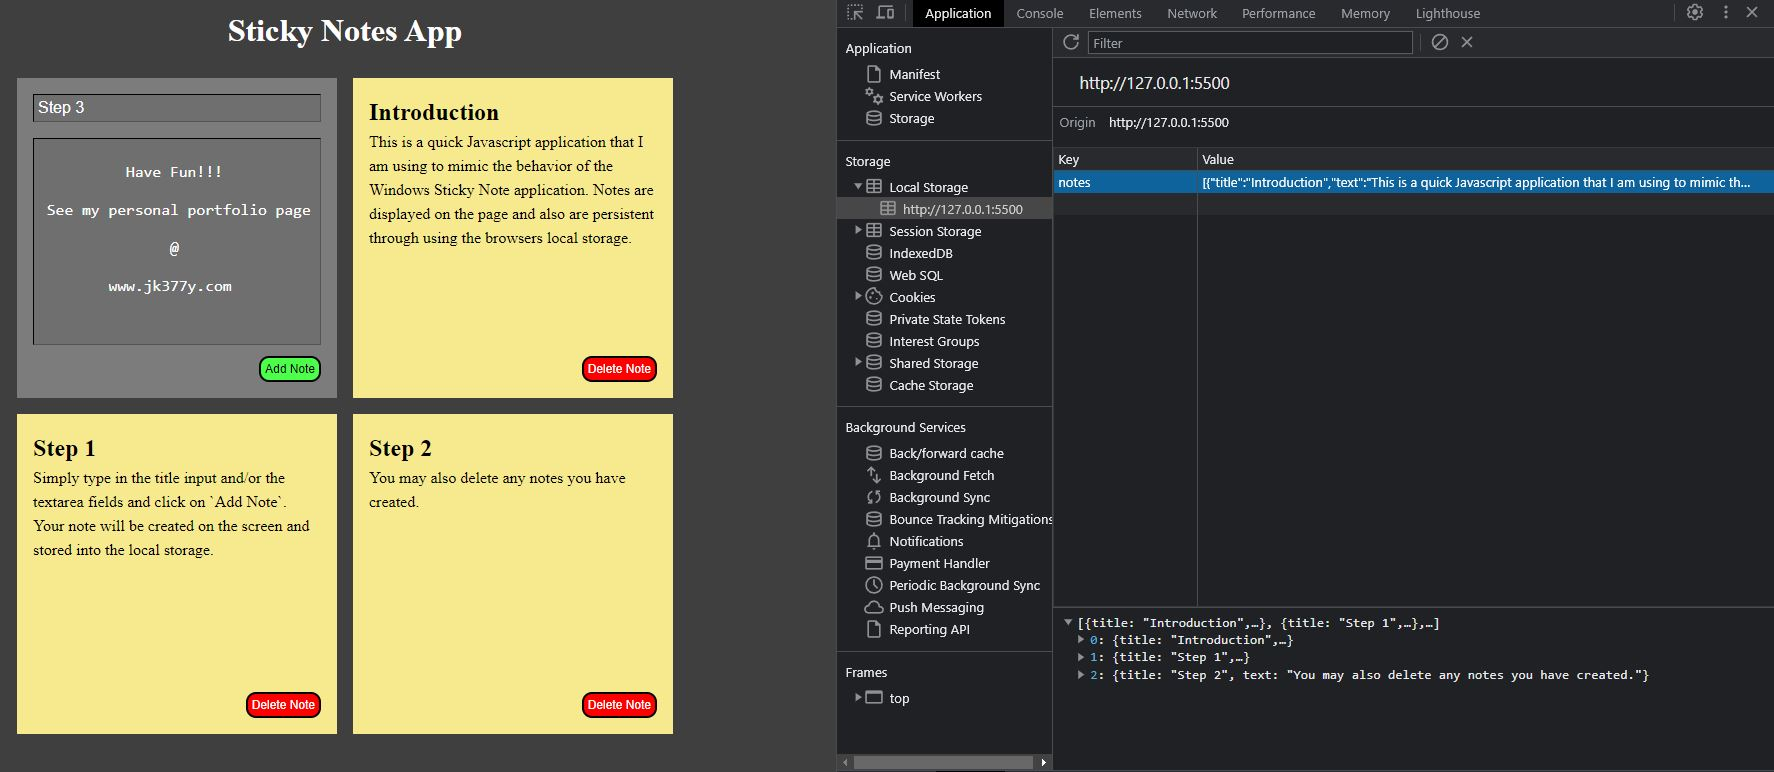
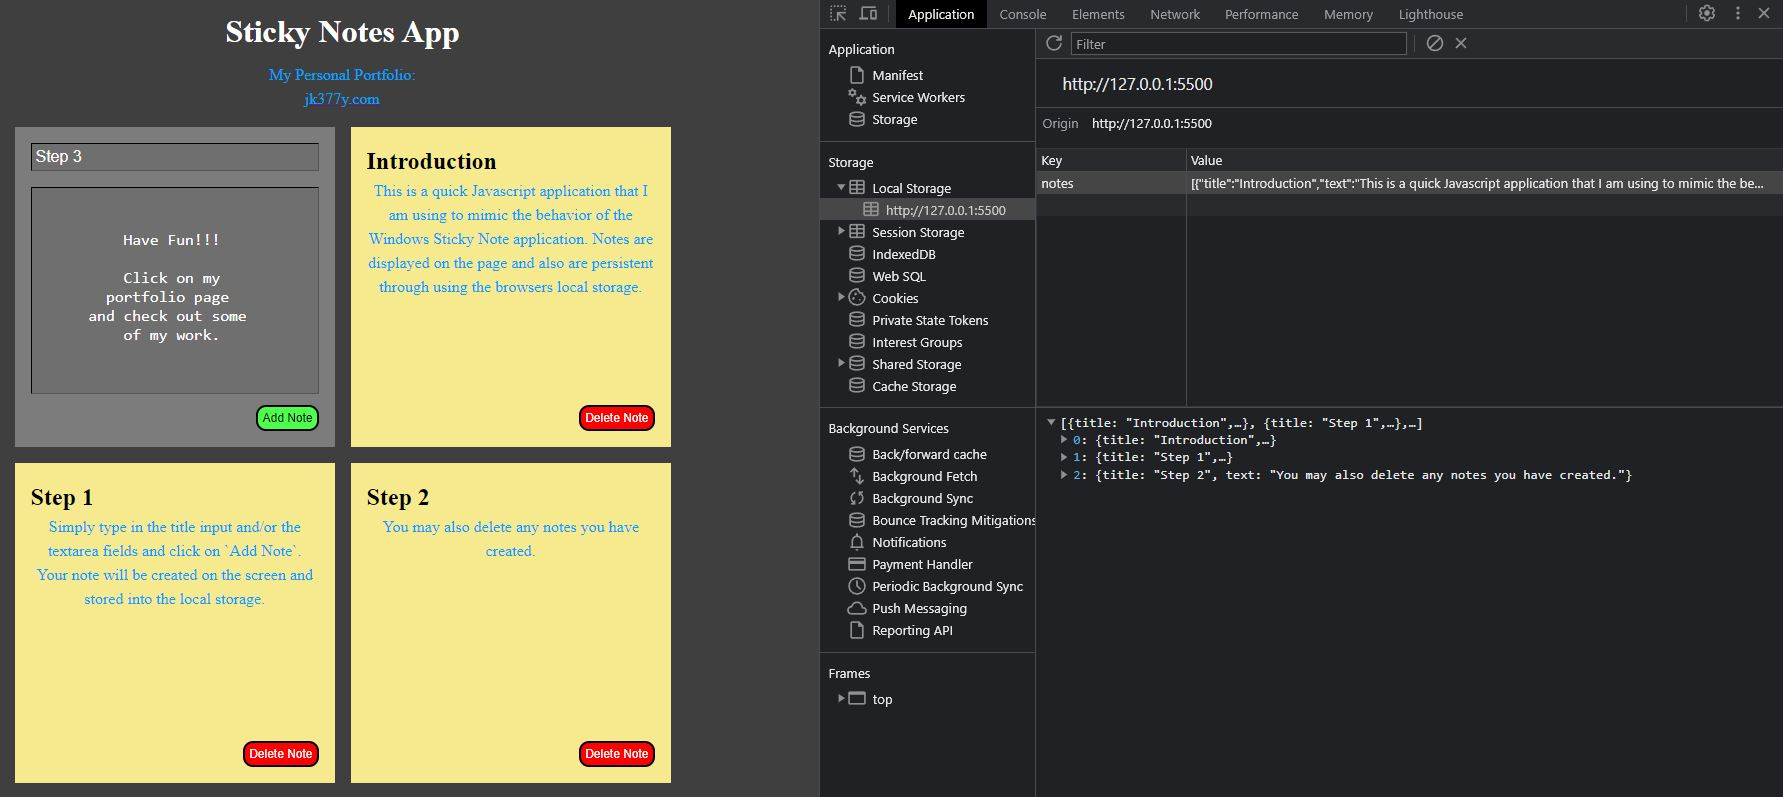
added portfolio link to live url

diff --git a/index.html b/index.html
@@ -10,6 +10,11 @@
 	<body>
 		<main>
 			<h1>Sticky Notes App</h1>
+            <p>My Personal Portfolio:</p>
+            <a href="https://jk377y.com" target="_blank">
+                
+                <p class="link">jk377y.com</p>
+            </a>
 			<div class="container">
 				<div id="start">
 					<label for="startTitle" class="hidden"></label>

diff --git a/style.css b/style.css
@@ -30,6 +30,10 @@ h1 {
 	padding: 0.5rem;
 	color: var(--color1);
 }
+p, p.link {
+	text-align: center;
+	color: rgb(0, 162, 255);
+}
 main {
 	height: 100%;
 	width: 100%;

diff --git a/README.md b/README.md
@@ -5,7 +5,7 @@
 https://sticky-notes-iota.vercel.app/
 
 ## Description
-This is a quick Javascript application that I am using to mimic the behavior of the Windows Sticky Note application. Notes are displayed on the page and also are persistent through using the browsers local storage.<br>
+This is a quick Javascript application that I am using to mimic the behavior of the Windows Sticky Note application. Notes are displayed on the page and also are persistent through using the browser's local storage.<br>
 
 ## Screenshot
 <img src="./screenshot1.JPG" alt="screenshot of application being used in browser"><br>
